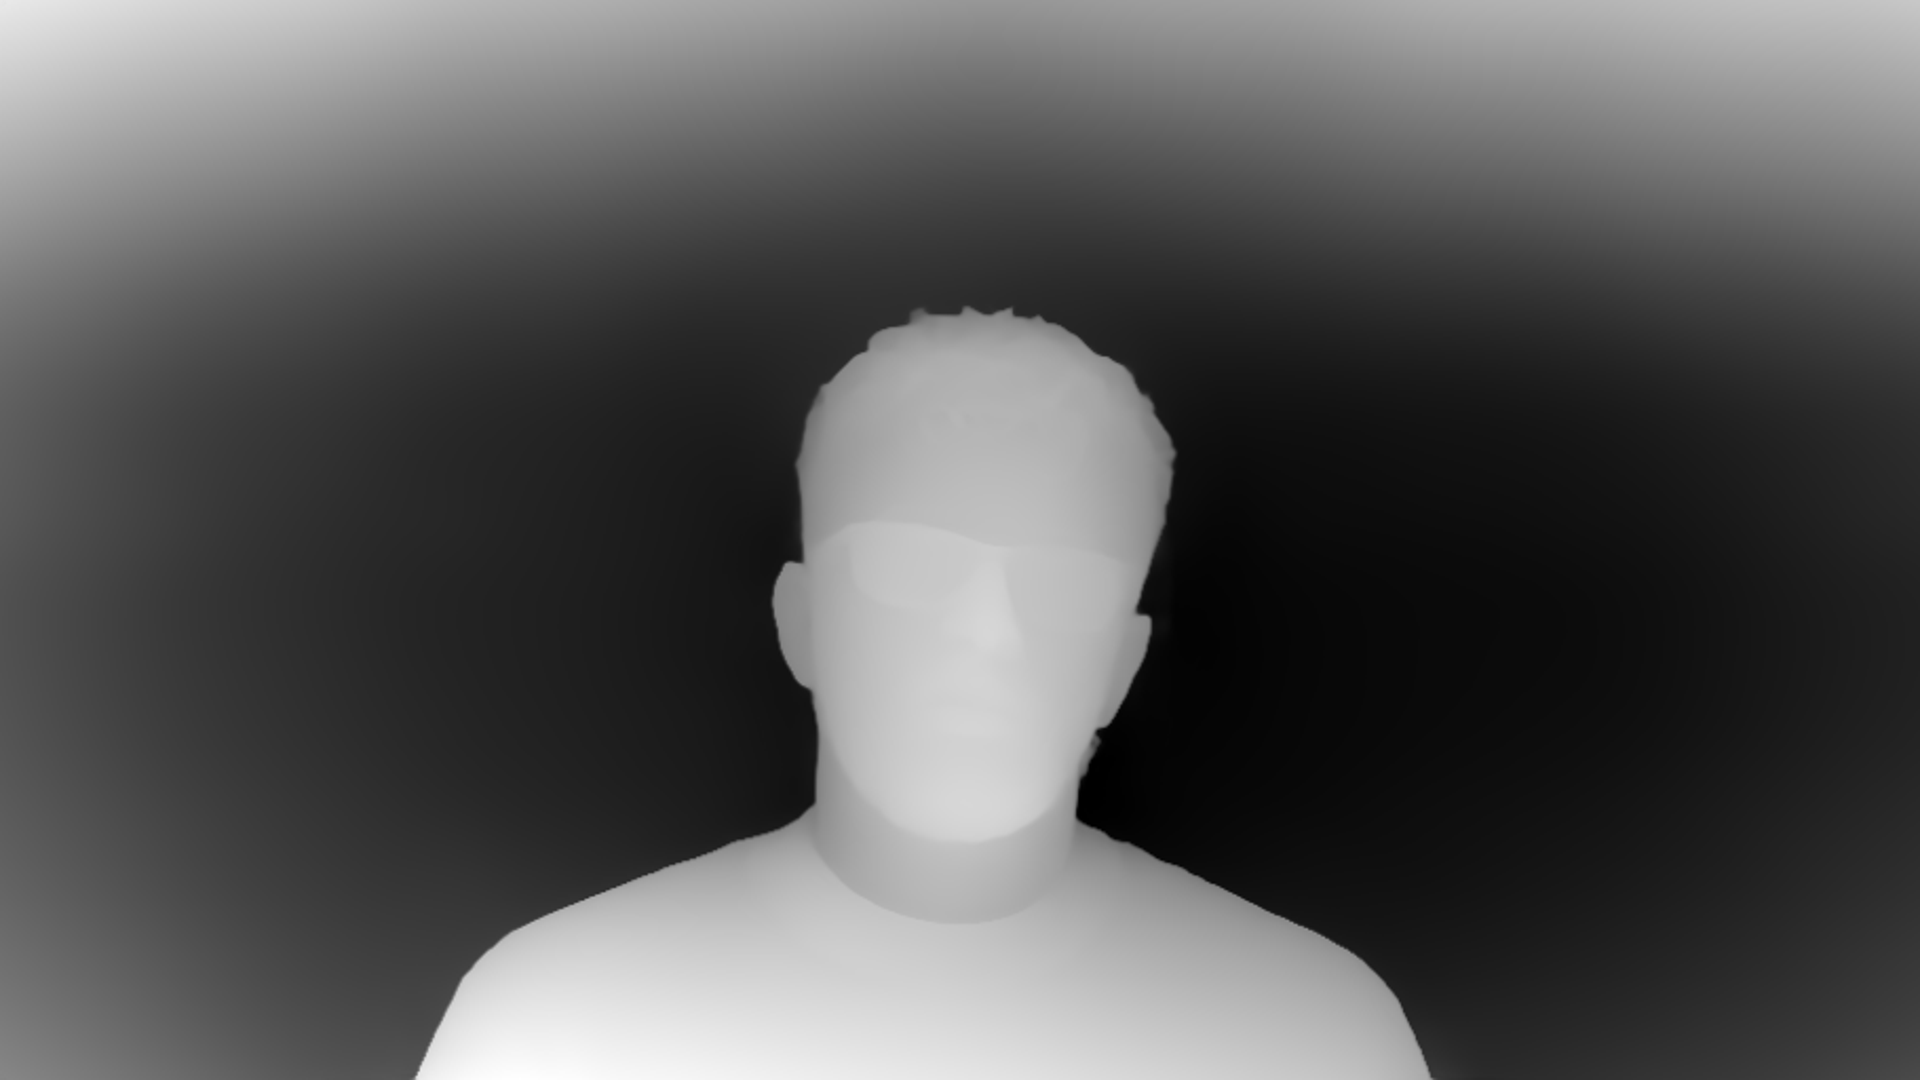
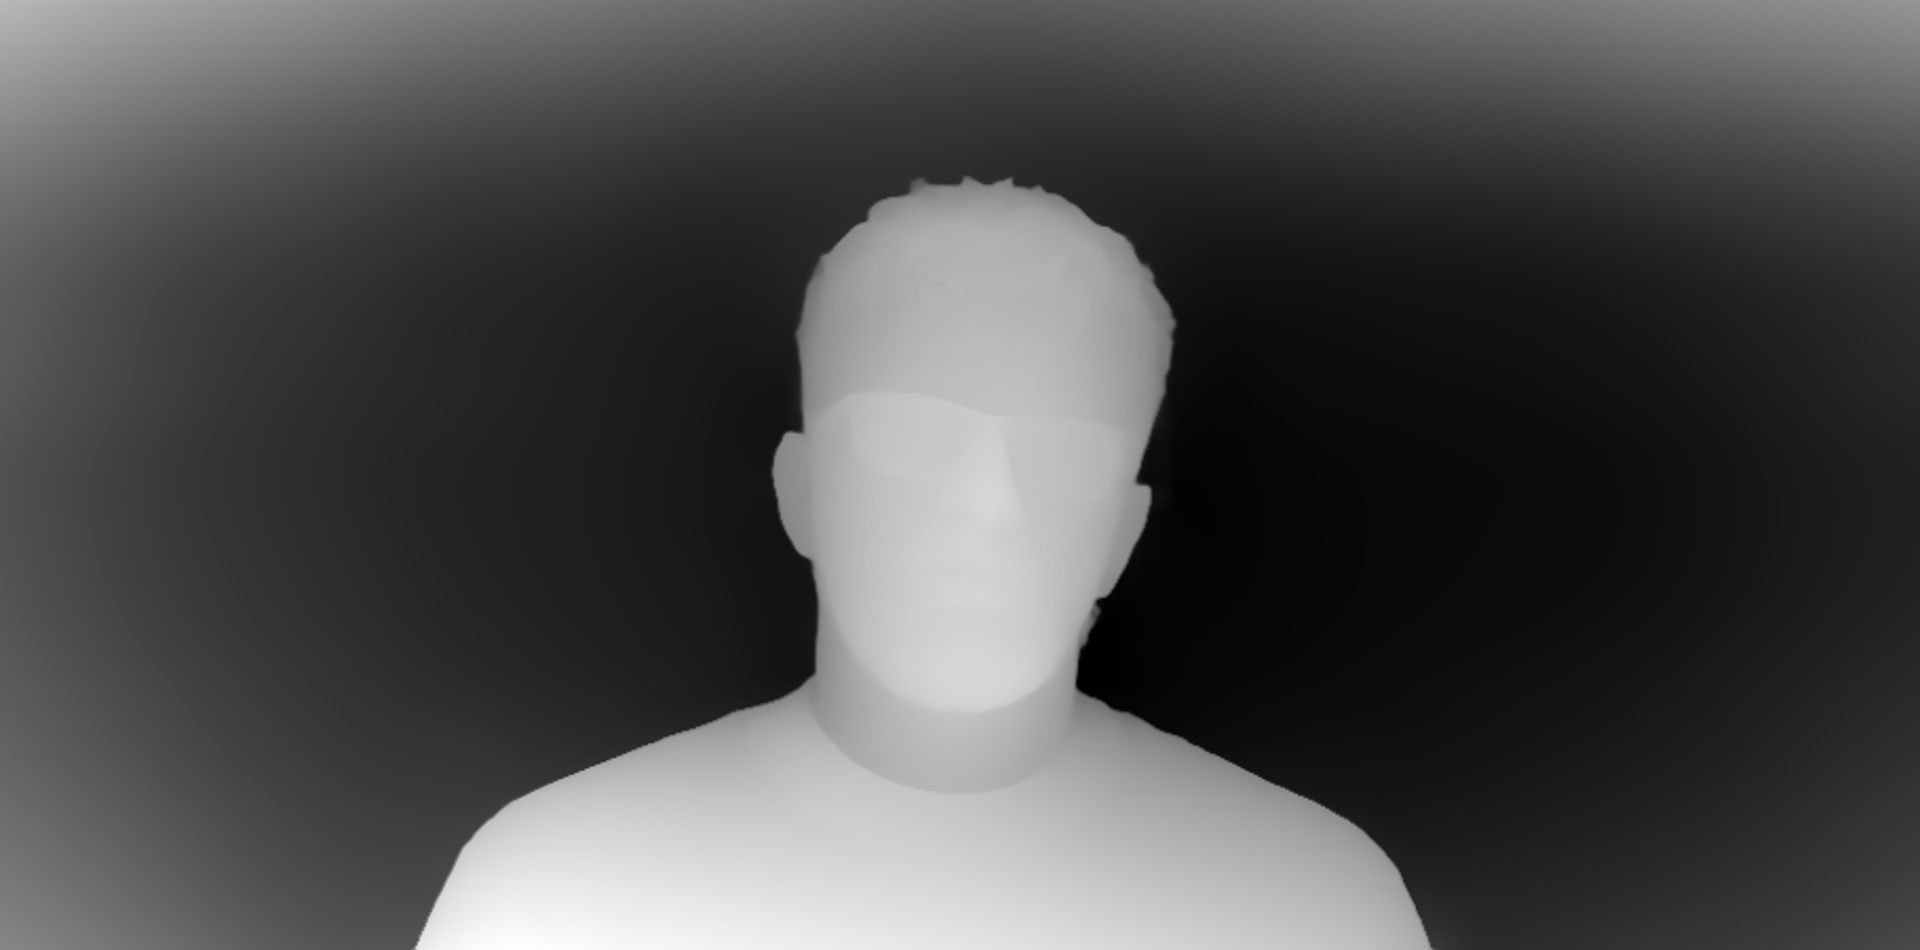
Refactor code structure for improved readability and maintainability

diff --git a/src/ui/HeroBg.jsx b/src/ui/HeroBg.jsx
@@ -1,7 +1,9 @@
 import { useEffect, useRef } from "react";
 
-import topImage from "../assets/images/charcter-1.jpg";
-import revealImage from "../assets/images/charcter-2.jpg";
+import topBg from "../assets/images/top-background.jpg";
+import topChar from "../assets/images/charcter-1.png";
+import bottomBg from "../assets/images/bottom-background.jpg";
+import bottomChar from "../assets/images/charcter-2.png";
 
 export default function HeroBg() {
   const canvasRef = useRef(null);
@@ -12,8 +14,10 @@ export default function HeroBg() {
     const ctx = canvas.getContext("2d", { willReadFrequently: false });
     const container = containerRef.current;
 
-    const topImg = new Image();
-    const bottomImg = new Image();
+    const topBgImg = new Image();
+    const topCharImg = new Image();
+    const bottomBgImg = new Image();
+    const bottomCharImg = new Image();
 
     const particles = [];
     const trailPoints = [];
@@ -115,11 +119,11 @@ export default function HeroBg() {
       ctx.clearRect(0, 0, canvas.width, canvas.height);
 
       ctx.globalCompositeOperation = "source-over";
-      ctx.drawImage(topImg, 0, 0, canvas.width, canvas.height);
+      ctx.drawImage(topBgImg, 0, 0, canvas.width, canvas.height);
+      ctx.drawImage(topCharImg, 0, 0, canvas.width, canvas.height);
 
       ctx.globalCompositeOperation = "destination-out";
 
-      // Trail + Particles (unchanged for now)
       for (let i = trailPoints.length - 1; i >= 0; i--) {
         const p = trailPoints[i];
         p.life -= params.dissipation * dt * 1.05;
@@ -171,7 +175,6 @@ export default function HeroBg() {
       const normalizedX = (newX - centerX) / centerX;
       const normalizedY = (newY - centerY) / centerY;
 
-      // Lighter tilt
       mouse.targetTiltY = normalizedX * params.tiltMax * 0.65;
       mouse.targetTiltX = -normalizedY * params.tiltMax * 0.65;
 
@@ -193,17 +196,21 @@ export default function HeroBg() {
     let loaded = 0;
     function imageLoaded() {
       loaded++;
-      if (loaded === 2) {
+      if (loaded === 4) {
         resize();
         animate(0);
       }
     }
 
-    topImg.onload = imageLoaded;
-    bottomImg.onload = imageLoaded;
+    topBgImg.onload = imageLoaded;
+    topCharImg.onload = imageLoaded;
+    bottomBgImg.onload = imageLoaded;
+    bottomCharImg.onload = imageLoaded;
 
-    topImg.src = topImage;
-    bottomImg.src = revealImage;
+    topBgImg.src = topBg;
+    topCharImg.src = topChar;
+    bottomBgImg.src = bottomBg;
+    bottomCharImg.src = bottomChar;
 
     canvas.addEventListener("mousemove", handleMove);
 
@@ -233,7 +240,13 @@ export default function HeroBg() {
       }}
     >
       <img
-        src={revealImage}
+        src={bottomBg}
+        alt=""
+        className="absolute inset-0 h-full w-full object-cover pointer-events-none"
+        draggable={false}
+      />
+      <img
+        src={bottomChar}
         alt=""
         className="absolute inset-0 h-full w-full object-cover pointer-events-none"
         draggable={false}
@@ -243,6 +256,7 @@ export default function HeroBg() {
         ref={canvasRef}
         className="absolute inset-0 h-full w-full"
       />
+
     </div>
   );
 }

diff --git a/src/components/HeroSection.jsx b/src/components/HeroSection.jsx
@@ -1,10 +1,16 @@
 import HeroBg from "../ui/HeroBg"
 
 const HeroSection = () => {
-  return (
-      <div className="relative w-full h-screen overflow-hidden">
-          <HeroBg />
-      </div>
-  )
+    return (
+        <div className="relative w-full h-screen overflow-hidden">
+            <span className=" text-white absolute z-50 top-1/2 -translate-y-1/2 text-center rotate-270 tracking-[4.8px] text-[12px] opacity-15 select-none">
+                Designer & Creative Director
+            </span>
+            <span className=" text-white absolute z-50 top-1/2 right-0 -translate-y-1/2 text-center rotate-90 tracking-[4.8px] text-[12px] opacity-15 select-none">
+                Based in Cairo,egypt — 2026
+            </span>
+            <HeroBg />
+        </div>
+    )
 }
 export default HeroSection

diff --git a/src/App.jsx b/src/App.jsx
@@ -1,4 +1,4 @@
-import HeroSection from './ui/HeroBg.jsx'
+import HeroSection from './components/HeroSection.jsx'
 import Nav from './components/Nav.jsx'
 
 function App() {
